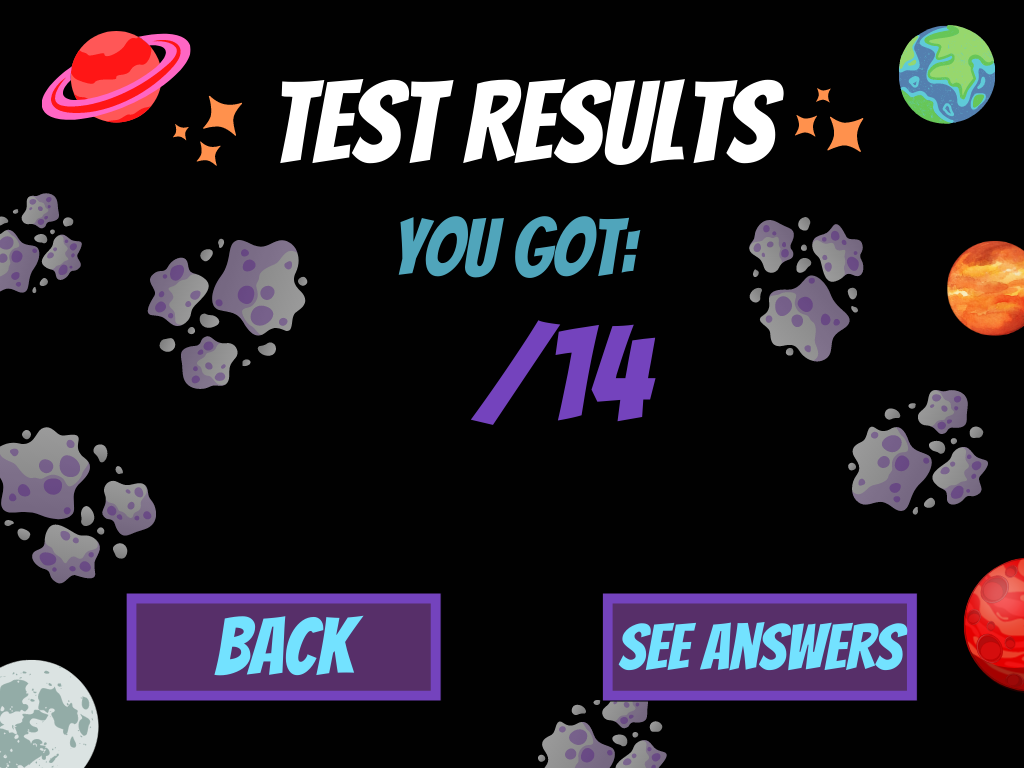
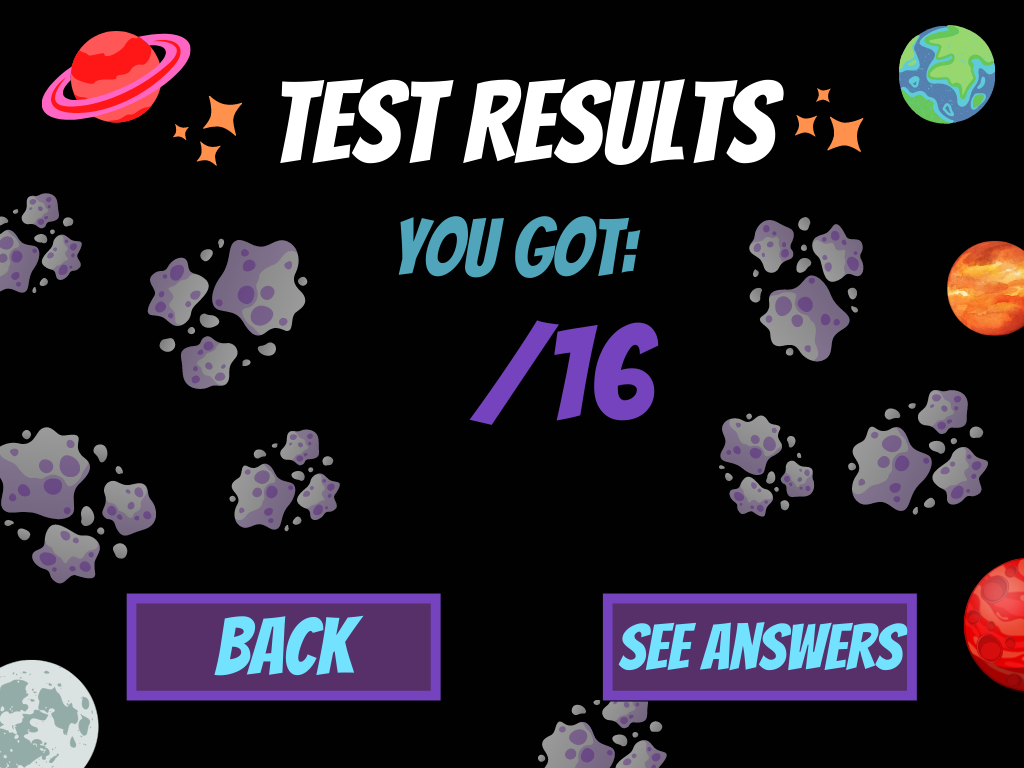
test done

Changed region(s): [[0.6875, 0.5312, 0.8125, 0.6875], [0.2188, 0.5625, 0.3438, 0.6875], [0.5312, 0.4062, 0.6562, 0.5625]]

diff --git a/testMultChoiceScene.py b/testMultChoiceScene.py
@@ -18,76 +18,83 @@ questions = [
         "Between Earth and Mars",
         "The Asteroid Belt",
         "The Oort Cloud"
-    ], "correctAnswer": 2, "image": pygame.image.load("./assets/titleBackground.png") },
+    ], "correctAnswer": 2 },
     { "question": "The Jovian planets are:", "answers": [
         "Uranus, Saturn, Neptune, and Jupiter",
         "Neptune and Uranus",
         "Jupiter and Saturn",
         "Mercury, Venus, Earth, and Mars"
-    ], "correctAnswer": 0, "image": pygame.image.load("./assets/titleBackground.png") },
-    { "question": "Which is the hottest planet in the \nSolar System?", "answers": [
+    ], "correctAnswer": 0 },
+    { "question": "Which is the hottest planet \nin the Solar System?", "answers": [
         "Ceres",
         "Mercury",
         "Mars",
         "Venus"
-    ], "correctAnswer": 3, "image": pygame.image.load("./assets/titleBackground.png") },
-    { "question": "Which planet is unusual because of its \nelongated shape?", "answers": [
+    ], "correctAnswer": 3 },
+    { "question": "Which planet is unusual because \nof its elongated shape?", "answers": [
         "Earth",
         "Makemake",
         "Uranus",
         "Haumea"
-    ], "correctAnswer": 3, "image": pygame.image.load("./assets/titleBackground.png") },
-    { "question": "Which planet has soil containing \niron oxide (rust)?", "answers": [
+    ], "correctAnswer": 3 },
+    { "question": "Which planet has soil \ncontaining iron oxide (rust)?", "answers": [
         "Venus",
         "Mercury",
         "Makemake",
         "Mars"
-    ], "correctAnswer": 3, "image": pygame.image.load("./assets/titleBackground.png") },
-    { "question": "Jupiter's 4 largest moons are:", "answers": [
+    ], "correctAnswer": 3 },
+    { "question": "Jupiter's 4 largest \nmoons are:", "answers": [
         "Haumea, Makemake, Eris, and Ceres",
         "Io, Europa, Ganymede, and Callisto",
         "The Ganymede moons",
         "Jupiter only has 3 moons."
-    ], "correctAnswer": 1, "image": pygame.image.load("./assets/titleBackground.png") },
-    { "question": "Which planet is known for rotating \non its side?", "answers": [
+    ], "correctAnswer": 1 },
+    { "question": "What is the sun \nmostly made of?", "answers": [
+        "Hydrogen and helium",
+        "Oxygen",
+        "Helium",
+        "Hydrogen, helium, and oxygen"
+    ], "correctAnswer": 0 },
+    { "question": "Which planet is known for \nrotating on its side?", "answers": [
         "Neptune",
         "Uranus",
         "Makemake",
         "Saturn"
-    ], "correctAnswer": 1, "image": pygame.image.load("./assets/titleBackground.png") },
-    { "question": "Which is the least densest planet in the \nsolar system?", "answers": [
+    ], "correctAnswer": 1 },
+    { "question": "Which is the least densest \nplanet in the solar system?", "answers": [
         "Saturn",
         "Jupiter",
         "Neptune",
         "Uranus"
-    ], "correctAnswer": 0, "image": pygame.image.load("./assets/titleBackground.png") },
-    { "question": "Which planet is mostly covered by \nliquid water?", "answers": [
+    ], "correctAnswer": 0 },
+    { "question": "Which planet is mostly covered \nby liquid water?", "answers": [
         "Neptune",
         "Ganymede",
         "Earth",
         "Europa"
-    ], "correctAnswer": 2, "image": pygame.image.load("./assets/titleBackground.png") },
-    { "question": "Which is the farthest full-fledged planet \nfrom the sun?", "answers": [
+    ], "correctAnswer": 2 },
+    { "question": "Which is the farthest \nfull-fledged planet from the sun?", "answers": [
         "Uranus",
         "Pluto",
         "Neptune",
         "Mercury"
-    ], "correctAnswer": 2, "image": pygame.image.load("./assets/titleBackground.png") },
+    ], "correctAnswer": 2 },
+    { "question": "Where does the Sun \nproduce its energy?", "answers": [
+        "The Photosphere",
+        "The Core",
+        "The Sun doesn't produce energy.",
+        "The Chromosphere"
+    ], "correctAnswer": 1 },
 ]
 
-# Scale images so that their height is 260 while preserving aspect ratio
-for question in questions:
-    newWidth = round(260/question["image"].get_height()*question["image"].get_width())
-    question["image"] = pygame.transform.scale(question["image"], (newWidth, 260))
-
 radioButtonSize = 20
-radioButtonXCoord = 115
-radioButtonYCoords = [ 410, 470, 530, 590 ]
+radioButtonXCoord = 70
+radioButtonYCoords = [ 310, 380, 450, 520 ]
 
 def testMultChoiceScene(events, screen, state, globals):
     # initialize variables if they don't exist
     if not ("userAnswers" in globals and globals["userAnswers"]):
-        globals["userAnswers"] = [ 0 for i in range(len(questions)) ]
+        globals["userAnswers"] = [ None for i in range(len(questions)) ]
     if not state:
         state["currentQuestion"] = 0
 
@@ -131,7 +138,6 @@ def testMultChoiceScene(events, screen, state, globals):
 
     renderText(screen, state)
     drawButtons(screen, state, globals)
-    drawImg(screen, state)
     
     if globals["showTestAnswers"]:
         showAnswers(screen, state, globals)
@@ -141,15 +147,15 @@ def renderText(screen, state):
 
     if "\n" in currentQuestion:
         splitQuestion = currentQuestion.splitlines()
-        bangersFont.render_to(screen, (60, 17), splitQuestion[0], WHITE, size=58)
-        bangersFont.render_to(screen, (60, 65), splitQuestion[1], WHITE, size=58)
+        bangersFont.render_to(screen, (50, 136), splitQuestion[0], WHITE, size=58)
+        bangersFont.render_to(screen, (50, 184), splitQuestion[1], WHITE, size=58)
     else:
-        bangersFont.render_to(screen, (60, 20), questions[state["currentQuestion"]]["question"], WHITE, size=66)
+        bangersFont.render_to(screen, (50, 136), questions[state["currentQuestion"]]["question"], WHITE, size=66)
 
-    bangersFont.render_to(screen, (150, 390), questions[state["currentQuestion"]]["answers"][0], PURPLE, size=52)
-    bangersFont.render_to(screen, (150, 450), questions[state["currentQuestion"]]["answers"][1], CYAN, size=52)
-    bangersFont.render_to(screen, (150, 510), questions[state["currentQuestion"]]["answers"][2], PURPLE, size=52)
-    bangersFont.render_to(screen, (150, 570), questions[state["currentQuestion"]]["answers"][3], CYAN, size=52)
+    bangersFont.render_to(screen, (105, 290), questions[state["currentQuestion"]]["answers"][0], PURPLE, size=52)
+    bangersFont.render_to(screen, (105, 360), questions[state["currentQuestion"]]["answers"][1], CYAN, size=52)
+    bangersFont.render_to(screen, (105, 430), questions[state["currentQuestion"]]["answers"][2], PURPLE, size=52)
+    bangersFont.render_to(screen, (105, 500), questions[state["currentQuestion"]]["answers"][3], CYAN, size=52)
 
 def radioButton(screen, radius, pos, selected, unselectedColor, selectedColor):
     pygame.draw.circle(screen, selectedColor if selected else unselectedColor, pos, radius, radius//7)
@@ -162,12 +168,8 @@ def drawButtons(screen, state, globals):
         radioButton(screen, radioButtonSize, (radioButtonXCoord, radioButtonYCoords[i]), 
             globals["userAnswers"][state["currentQuestion"]] == i, (190,190,190), (255,255,255))
 
-def drawImg(screen, state):
-    questionImg = questions[state["currentQuestion"]]["image"]
-    position = (512 - questionImg.get_width()/2, 240 - 125) # center image around (512,240)
-    screen.blit(questionImg, position)
-
 def showAnswers(screen, state, globals):
     screen.blit(checkMark, (radioButtonXCoord - 70, radioButtonYCoords[questions[state["currentQuestion"]]["correctAnswer"]] - 25))
-    if globals["userAnswers"][state["currentQuestion"]] != questions[state["currentQuestion"]]["correctAnswer"]:
+    if globals["userAnswers"][state["currentQuestion"]] != questions[state["currentQuestion"]]["correctAnswer"] \
+        and globals["userAnswers"][state["currentQuestion"]] != None:
         screen.blit(xMark, (radioButtonXCoord - 62, radioButtonYCoords[globals["userAnswers"][state["currentQuestion"]]] - 27))

diff --git a/resultsScene.py b/resultsScene.py
@@ -6,7 +6,7 @@ CYAN = (80, 165, 187)
 backgroundImg = pygame.image.load("./assets/resultsBackground.png")
 bangersFont = pygame.freetype.Font("./assets/Bangers-Regular.ttf")
 
-correctAnswers = [ 2, 0, 3, 3, 3, 1, 1, 0, 2, 2 ]
+correctAnswers = [ 2, 0, 3, 3, 3, 1, 0, 1, 0, 2, 2, 1 ]
 correctMatches = [ 1, 3, 2, 0 ]
 
 def resultsScene(events, screen, state, globals):

diff --git a/main.py b/main.py
@@ -52,4 +52,4 @@ startGame({
     "Uranus/Neptune": lessonUranusNeptune, 
     "Dwarf Planets": lessonDwarf, 
     "Dwarf Planets2": lessonDwarf2
-}, "game", (1024, 768))
+}, "testStart", (1024, 768))
